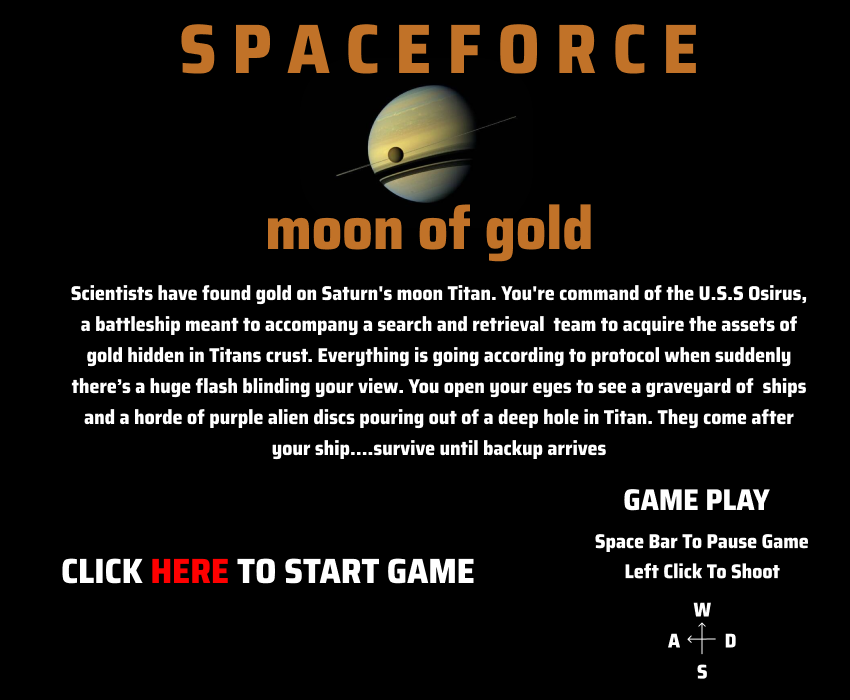
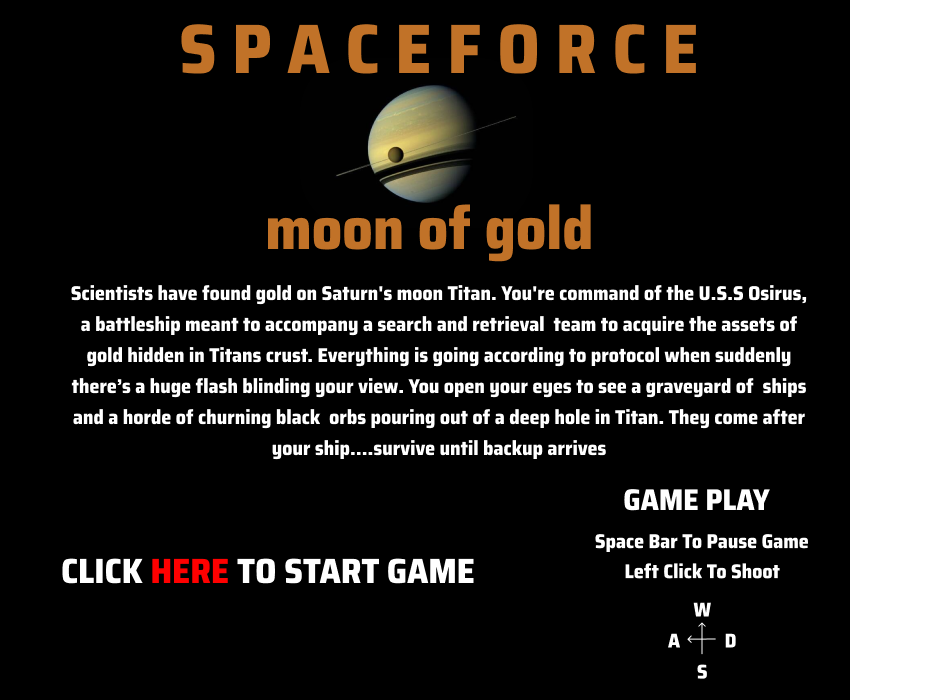
OSI SPRITE & COLOR KIT UPDATE

Changed region(s): [[0.0612, 0.0, 1.0, 1.0], [0.0612, 0.78, 0.5812, 0.84]]

diff --git a/script.js b/script.js
@@ -15,10 +15,10 @@ document.getElementById('startGame').addEventListener('click',function startGame
     var canvas = document.getElementById('myCanvas');
     var healthBar = document.getElementById('healthGreen')
     var HUD = document.getElementById('scoreBoard')
+    var osiSprite = new Image() 
+    osiSprite.src = './assets/OSI.png'
     var ctx = canvas.getContext('2d');
     window.addEventListener('click', (e) => {
-        // console.log(e, "event")
-        // console.log(osi.x, osi.y, "x y osi")
         bulletFire(getCursorPosition(canvas, e));
     });
     
@@ -28,11 +28,11 @@ document.getElementById('startGame').addEventListener('click',function startGame
     ///////////////////////////////// GLOBAL INFORMATION /////////////////////////////////////////////
     var enemies = [];
     var allEnemies = [];
-    var numOfEnemies = 150; 
+    var numOfEnemies = 120; 
     var host;
-    var swarmSpeed = 8;
-    var swarmSize = 2.5;
-    var hostSpeed = 1.3;
+    var swarmSpeed = 4.2;
+    var swarmSize = 2;
+    var hostSpeed = .6;
     var pause = false;
     var score = 0;
     var time = 120;
@@ -47,14 +47,14 @@ document.getElementById('startGame').addEventListener('click',function startGame
         left : false,
         right : false,
         down : false,
-        diameter : 20,
+        diameter : 30,
         health: 800,
-        move: 2,
+        move: 1,
     }
     var bullet = {
         x: osi.x,
         y: osi.y,
-        diameter: 5,
+        diameter: 2.5,
         speed: 1.5,
         difference: null,
         slope: null,
@@ -71,12 +71,8 @@ document.getElementById('startGame').addEventListener('click',function startGame
         diameter : 3,
     }
     
-    // ->
-    // Difference 
-    
+  
     /// if there is a click run below 
-    
-    
     ///////////////////////////////// START TO DRAW ON SCREEN  /////////////////////////////////////////////
     
     //draws scoreboard
@@ -88,25 +84,21 @@ document.getElementById('startGame').addEventListener('click',function startGame
     function drawBullet(currentBullet){
         ctx.beginPath();
         ctx.arc(currentBullet.x,currentBullet.y,currentBullet.diameter,0,Math.PI*2);
-        ctx.fillStyle = `#edf2f4`;
+        ctx.fillStyle = `#6fffe9`;
         ctx.fill();
         ctx.closePath();
     }
     //draws player ship
     function drawOsiris(){ 
-        ctx.beginPath();
-        ctx.arc(osi.x,osi.y,osi.diameter,0,Math.PI*2);
-        ctx.fillStyle = "#708d81";
-        ctx.fill();
-        ctx.closePath()  
+        ctx.drawImage(osiSprite,osi.x - osi.diameter,osi.y - osi.diameter,osi.diameter * 2,osi.diameter * 2);
     }
     //draws enemy & host 
     function drawEnemy(obj){
         ctx.beginPath();
         ctx.arc(obj.x,obj.y,enemy.diameter,0,Math.PI*2);
-        ctx.fillStyle = "#b934e3";
+        ctx.fillStyle = "#000000";
         if (obj.host){
-            ctx.fillStyle ="#b934e3"
+            ctx.fillStyle ="#000000"
         }
         ctx.fill();
         ctx.closePath() 
@@ -223,7 +215,7 @@ document.getElementById('startGame').addEventListener('click',function startGame
     
     //SPWAN IN ENEMIES 
      function moreEnemies(){
-        if (enemies.length <= 20 || time % 200 == 0 ){
+        if (enemies.length <= 40 || time % 200 == 0 ){
             numOfEnemies * 1 * waveNum
             spawnWave()
         }
@@ -375,13 +367,12 @@ document.getElementById('startGame').addEventListener('click',function startGame
     //if health reaches zero GAME OVER
     function gameover(){
         if( osi.health <= 0)
-        alert('YOUR SHIP WAS DESTROYED')
-        
+        alert('YOUR SHIP WAS DESTROYED -- ENEMIES DESROYED: '+ score)
     }
 
     function gamewon(){
         if( time === 0)
-        alert('YOU SURVIVED, HELP HAS ARRIVED')
+        alert('YOU SURVIVED, HELP HAS ARRIVED -- ENEMIES DESROYED: '+ score)
     }
     // RETURN FOR PAUSE FUNCTION ON SPACEBAR
     function draw(){

diff --git a/styles.css b/styles.css
@@ -8,6 +8,7 @@ html, body{
     display: flex;
     background-color: black ;
 }
+
   #myCanvas{
     background-image: url(./assets/redPlanet.jpeg);
     background-color: black;
@@ -17,6 +18,7 @@ html, body{
     top: 0;
     border-radius: 25px;
     z-index: -1;
+    cursor: crosshair;
   }
 #startGame{
    background-color: black;
